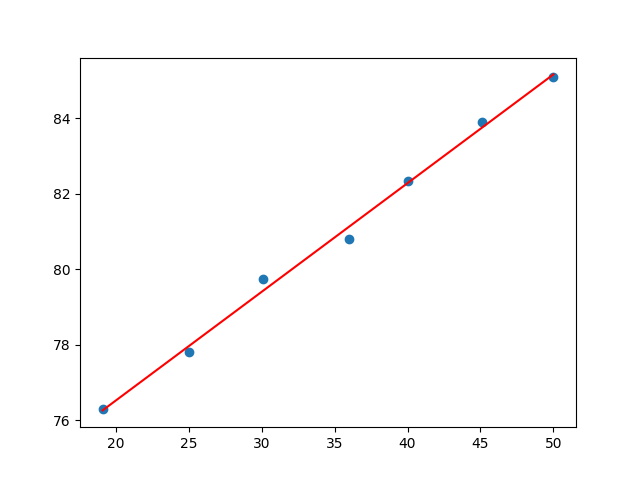
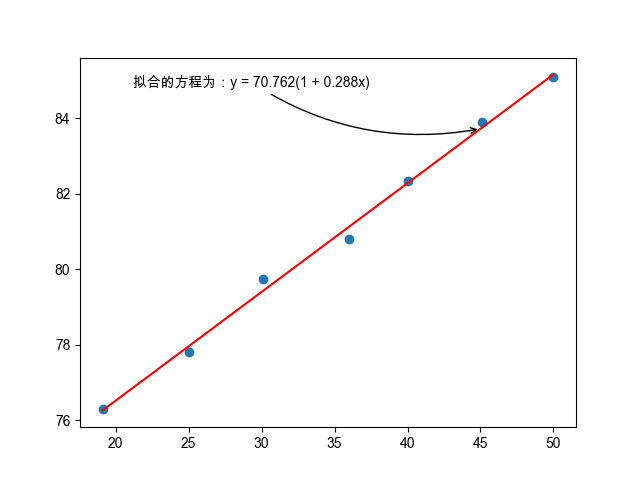
给图片添加了文字注释。

diff --git a/Exc3-14.py b/Exc3-14.py
@@ -3,6 +3,9 @@ import matplotlib.pyplot as plt
 import numpy as np
 from sklearn import linear_model
 
+plt.rcParams['font.sans-serif'] = 'Arial Unicode MS'
+plt.rcParams['axes.unicode_minus'] = False
+
 x = np.array([19.1, 25.0, 30.1, 36.0, 40.0, 45.1, 50.0])
 y = np.array([76.30, 77.80, 79.75, 80.80, 82.35, 83.90, 85.10])
 
@@ -18,6 +21,11 @@ R = np.sqrt(reg.score(x, y))
 x_fit = np.linspace(x[0], x[-1], 1000)
 y_fit = np.polyval([B_1, B_0], x_fit)
 plt.plot(x_fit, y_fit, 'r-', label='regression')
+x0 = 45
+y0 = np.polyval([B_1, B_0], x0)
+plt.annotate(fr"拟合的方程为：y = {B_0:.3f}(1 + {B_1:.3f}x)", xy=(x0, y0), xytext=(-250, +30),
+             textcoords='offset points', fontsize=10,
+             arrowprops=dict(arrowstyle='->', connectionstyle='arc3, rad=.2'))
 plt.savefig('Exc3-14')
 plt.show()
 R_0 = B_0

diff --git a/Add2-1.py b/Add2-1.py
@@ -18,4 +18,5 @@ def find_min_class(value, class_list):
     return classification
 
 
-print(f"该电流表的精度等级为{find_min_class(R, acc_list)}级")
+min_class = find_min_class(R, acc_list)
+print(f"该电流表的精度等级为{min_class}级")
